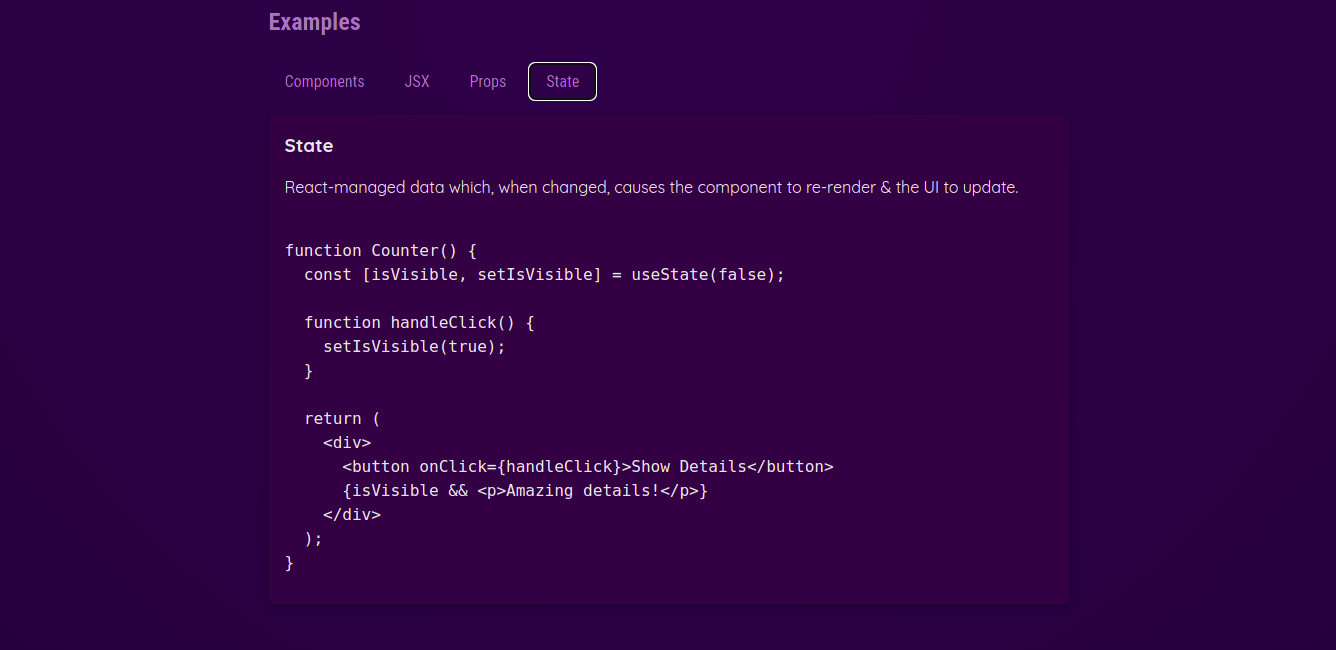
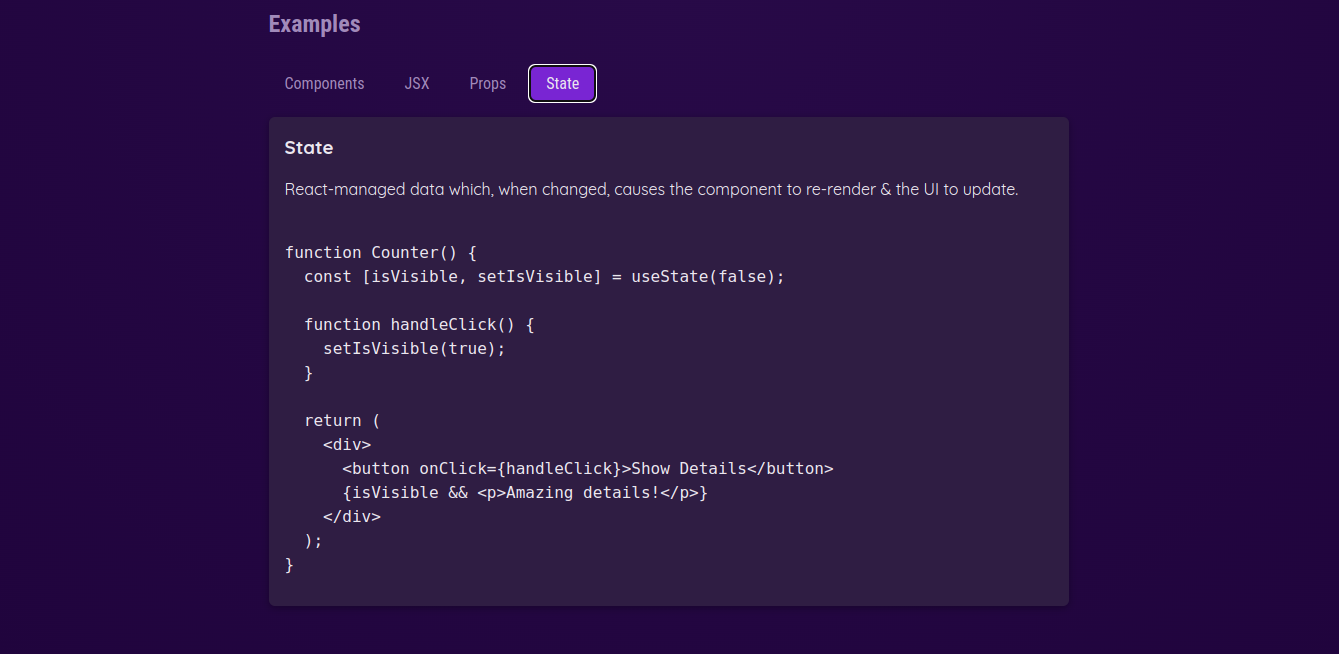
56. CSS Styling & Dynamic Styling

diff --git a/src/App.jsx b/src/App.jsx
@@ -29,10 +29,29 @@ function App() {
           </h2>
 
           <menu>
-            <TabButton onClick={ () => handleSelect('components')}>Components</TabButton>
-            <TabButton onClick={ () => handleSelect('jsx')}>JSX</TabButton>
-            <TabButton onClick={ () => handleSelect('props')}>Props</TabButton>
-            <TabButton onClick={ () => handleSelect('state')}>State</TabButton>
+            <TabButton
+              isSelected={ selectedTopic === 'components' }
+              onClick={ () => handleSelect('components')}>
+              Components
+            </TabButton>
+
+            <TabButton
+              isSelected={ selectedTopic === 'jsx' }
+              onClick={ () => handleSelect('jsx')}>
+              JSX
+            </TabButton>
+
+            <TabButton
+              isSelected={ selectedTopic === 'props' }
+              onClick={ () => handleSelect('props')}>
+              Props
+            </TabButton>
+
+            <TabButton
+              isSelected={ selectedTopic === 'state' }
+              onClick={ () => handleSelect('state')}>
+              State
+            </TabButton>
           </menu>
 
           <div id="tab-content">

diff --git a/src/components/TabButton.jsx b/src/components/TabButton.jsx
@@ -2,7 +2,11 @@ function TabButton(props) {
 
 	return (
 		<li>
-			<button onClick={props.onClick}> {props.children} </button>
+			<button 
+				className={props.isSelected && 'active'}
+				onClick={props.onClick}>
+				{props.children}
+			</button>
 		</li>
 	)
 }
